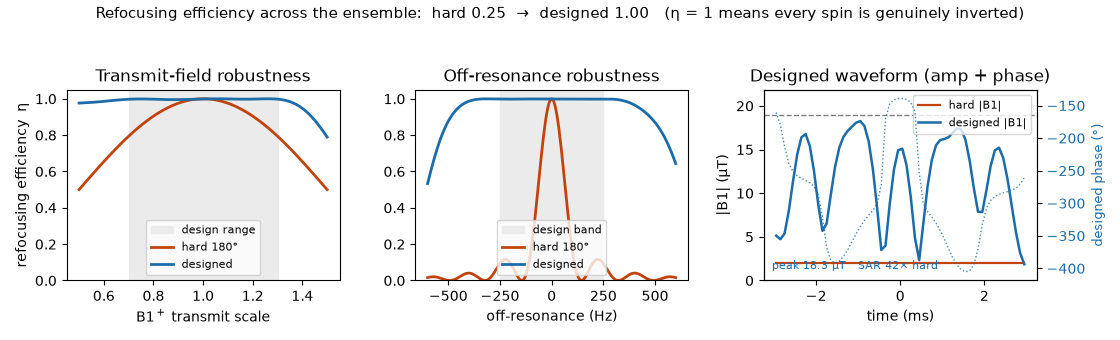
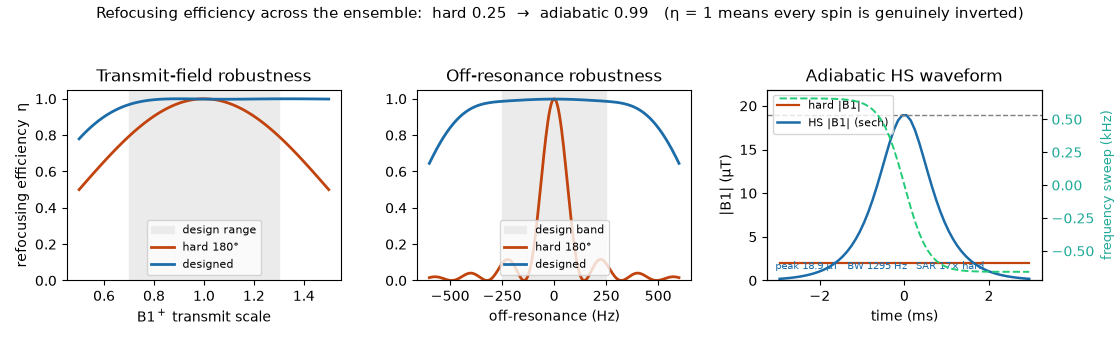
docs(rf): adiabatic (HS) pulse — clean spirals, real deliverable design
Rebuild the pedagogy around the hyperbolic-secant adiabatic pulse now used by
design_refocusing_rf. Hero: the three spins FOLLOW the swept field and spiral
smoothly +z→−z on the Bloch sphere (no more wander), with the sech B1(t)
playing. Profile: η vs B1⁺ / off-resonance (flat) + the sech amplitude & tanh
frequency sweep. Prose rewritten for the adiabatic mechanism, the sweep/
bandwidth, the SAR cost, and the pair-refocusing caveat.

diff --git a/docs/design/media/fig_rf_profile.py b/docs/design/media/fig_rf_profile.py
@@ -32,7 +32,7 @@ HARD, DES = "#c1440e", "#1b6ca8"
 
 d = design_refocusing_rf(rf_duration=RF_DUR, dt=DT, B1_max=B1_MAX,
                          b1_range=(0.7, 1.3), n_b1=7, off_resonance_hz=250.0,
-                         n_off_resonance=7, n_basis=10, n_restarts=8, seed=0)
+                         n_off_resonance=7)
 n_rf = d.B1.shape[0]
 A0 = np.pi / (GAMMA * n_rf * DT)
 hard = np.full(n_rf, A0, dtype=np.complex128)
@@ -64,23 +64,25 @@ axes[1].plot(df_ax, eta(d.B1, 1.0, df_ax), color=DES, lw=2, label="designed")
 axes[1].set_xlabel("off-resonance (Hz)"); axes[1].set_title("Off-resonance robustness")
 axes[1].set_ylim(0, 1.05); axes[1].legend(fontsize=8, loc="lower center")
 
-# (C) the designed waveform: amplitude + phase modulation
+# (C) the adiabatic waveform: sech amplitude + tanh frequency sweep (its defining feature)
 t = d.times() * 1e3
+freq = np.gradient(np.unwrap(np.angle(d.B1)), d.dt) / (2 * np.pi) * 1e-3   # kHz, instantaneous
 axC = axes[2]; axP = axC.twinx()
 axC.plot(t, np.abs(hard) * 1e6, color=HARD, lw=1.6, label="hard |B1|")
-axC.plot(t, np.abs(d.B1) * 1e6, color=DES, lw=1.8, label="designed |B1|")
+axC.plot(t, np.abs(d.B1) * 1e6, color=DES, lw=1.8, label="HS |B1| (sech)")
 axC.axhline(B1_MAX * 1e6, color="0.5", ls="--", lw=1)
-axP.plot(t, np.unwrap(np.angle(d.B1)) * 180 / np.pi, color=DES, lw=1.0, ls=":", alpha=0.8)
+axP.plot(t, freq, color="#2c7", lw=1.4, ls="--", label="sweep (tanh)")
 axC.set_xlabel("time (ms)"); axC.set_ylabel("|B1| (µT)")
-axP.set_ylabel("designed phase (°)", color=DES, fontsize=9)
-axP.tick_params(axis="y", labelcolor=DES)
-axC.set_title("Designed waveform (amp + phase)")
+axP.set_ylabel("frequency sweep (kHz)", color="#2a9", fontsize=9)
+axP.tick_params(axis="y", labelcolor="#2a9")
+axC.set_title("Adiabatic HS waveform")
 axC.set_ylim(0, B1_MAX * 1e6 * 1.15)
-axC.legend(fontsize=8, loc="upper right")
-axC.text(0.03, 0.06, "peak %.1f µT   SAR %.0f× hard" % (d.peak_B1 * 1e6, d.sar_ratio),
-         transform=axC.transAxes, fontsize=8, color=DES)
+axC.legend(fontsize=8, loc="upper left")
+axC.text(0.03, 0.06, "peak %.1f µT   BW %.0f Hz   SAR %.0f× hard"
+         % (d.peak_B1 * 1e6, d.bandwidth_hz, d.sar_ratio),
+         transform=axC.transAxes, fontsize=7.5, color=DES)
 
-fig.suptitle("Refocusing efficiency across the ensemble:  hard %.2f  →  designed %.2f   "
+fig.suptitle("Refocusing efficiency across the ensemble:  hard %.2f  →  adiabatic %.2f   "
              "(η = 1 means every spin is genuinely inverted)"
              % (d.refocusing_efficiency_hard, d.refocusing_efficiency), fontsize=10.5)
 fig.tight_layout(rect=(0, 0, 1, 0.93))

diff --git a/docs/design/media/fig_rf_refocus.py b/docs/design/media/fig_rf_refocus.py
@@ -36,9 +36,9 @@ from dmipy_sim.rf import B1Pulse, bloch_simulate
 
 DT, RF_DUR, B1_MAX = 1e-4, 6e-3, 19e-6
 
-d = design_refocusing_rf(rf_duration=RF_DUR, dt=DT, B1_max=B1_MAX,      # peak-limited (robust)
+d = design_refocusing_rf(rf_duration=RF_DUR, dt=DT, B1_max=B1_MAX,      # peak-limited (adiabatic)
                          b1_range=(0.7, 1.3), n_b1=7, off_resonance_hz=250.0,
-                         n_off_resonance=7, n_basis=10, n_restarts=8, seed=0)
+                         n_off_resonance=7)
 p_des = d.to_b1pulse()
 p_hard = B1Pulse.hard(180, RF_DUR, DT)
 
@@ -75,11 +75,12 @@ axH = fig.add_subplot(gs[0, 0], projection="3d")
 axD = fig.add_subplot(gs[0, 1], projection="3d")
 axE = fig.add_subplot(gs[1, :])
 _sphere(axH, "Hard 180°", "#c1440e")
-_sphere(axD, "B1-robust 180° (designed)", "#1b6ca8")
+_sphere(axD, "Adiabatic 180° (HS, designed)", "#1b6ca8")
 
 fig.suptitle("A 180° pulse should invert EVERY spin (+z → −z) whatever transmit strength B1⁺ it feels.\n"
-             "Three spins are followed on the Bloch sphere (rotating frame); the RF waveform plays below.",
-             fontsize=10, y=0.98)
+             "Left: a hard pulse. Right: an adiabatic (HS) pulse — the spin FOLLOWS the swept field, "
+             "spiralling smoothly to −z.",
+             fontsize=9.5, y=0.98)
 
 paths, tips = {}, {}
 for ax, H in ((axH, HH), (axD, HD)):

diff --git a/docs/design/rf.md b/docs/design/rf.md
@@ -5,63 +5,64 @@ inverts every spin perfectly, everywhere. A real refocusing pulse does not. Acro
 transmit field $B_1^+$ varies by tens of percent, so a hard 180° that is exactly π at the coil
 centre becomes a 126° at $B_1^+=0.7$ and a 234° at $B_1^+=1.3$ — the off-nominal spins are never
 properly flipped, the spin echo built on them is incomplete, and that is signal you simply lose.
-`design_refocusing_rf` designs the *RF envelope itself* to flip **every** spin by ~180° across
-that operating range, while staying scanner-deliverable.
 
-It is the **RF analogue of the [NOW gradient box](deliverable.md)**: same idea — maximise a
-physical objective, evaluated through the Bloch equation, subject to the real hardware limits —
-applied to $B_1(t)$ instead of $G(t)$.
+The standard, scanner-deliverable fix is an **adiabatic pulse**: sweep the RF frequency slowly
+through resonance while the amplitude rises and falls, and — provided the sweep is slow enough
+(the *adiabatic condition*) — the magnetisation **follows the effective field** from +z to −z
+*regardless* of the exact $B_1^+$. `design_refocusing_rf` designs the classic **hyperbolic-secant
+(HS) adiabatic full passage** (Silver, Joseph & Hoult 1985) and tunes it to your hardware.
 
-![Three spins are followed on the Bloch sphere (rotating frame) as each pulse plays: one weak-transmit (B1⁺ 0.7×, purple), one nominal (1.0×, black), one strong (1.3×, gold). A 180° pulse should invert every one of them, +z → −z. Under the hard 180° (left) only the nominal spin reaches the south pole; the weak and strong spins under/over-rotate and stall near the equator (Mz ≈ −0.6, not inverted). Under the designed 180° (right) — a phase-modulated, composite/adiabatic-like waveform, shown playing at the bottom — all three spiral down to −z (Mz ≈ −1). That is the robustness the optimiser buys.](media/rf_refocus.gif){ width="100%" }
+It is the **RF analogue of the [NOW gradient box](deliverable.md)**: design a *deliverable*
+waveform that meets a physical spec under the real hardware limits — here $B_1(t)$ instead of
+$G(t)$.
+
+![Three spins are followed on the Bloch sphere (rotating frame): weak-transmit (B1⁺ 0.7×, purple), nominal (1.0×, black), strong (1.3×, gold). Under the hard 180° (left) only the nominal spin reaches −z; the weak and strong spins under/over-rotate and stall near the equator (Mz ≈ −0.6, not inverted). Under the adiabatic HS pulse (right) all three FOLLOW the swept effective field and spiral smoothly down to −z (Mz ≈ −1), regardless of B1⁺. The RF waveform playing below is the HS amplitude (a smooth sech rise-and-fall).](media/rf_refocus.gif){ width="100%" }
 
 New to RF pulses? The [RF pulses — watch the spins](../rf_pulses.md) page (dmipy-sim) shows what
-a $B_1(t)$ envelope *is* and how the Bloch forward plays any pulse — this page is what happens
-when you put an optimiser in front of that forward.
+a $B_1(t)$ envelope *is* and how the Bloch forward plays any pulse — this page designs one.
 
 ## Idealized vs real refocusing
 
 | Idealized theory | Real hardware |
 |---|---|
-| instantaneous, perfect π everywhere | finite-duration pulse; flip scales with local $B_1^+$ |
+| instantaneous, perfect π everywhere | finite-duration pulse; a fixed-flip pulse's angle scales with $B_1^+$ |
 | single on-resonance spin | a spread of static **off-resonance** ($B_0$, susceptibility) |
 | unbounded RF | **peak $B_1$** cap (body-coil hardware limit) and **SAR** (heating) |
 | any shape | bandwidth / **RF slew** limited by the transmit chain |
 
-## The objective — per-spin refocusing fidelity
+## Why the adiabatic pulse is robust — and how it's scored
 
-A refocusing pulse should act as a true 180° rotation for **every** spin, whatever $B_1^+$ and
-off-resonance it sees. The figure of merit is the crushed spin-echo **refocusing efficiency**
+An adiabatic pulse doesn't try to hit exactly 180°; it makes the effective field *sweep* from
+far above resonance, through zero, to far below, and the magnetisation is dragged along with it.
+Change $B_1^+$ and the sweep is a little faster or slower, but as long as it stays adiabatic the
+spin still arrives at −z — that is the source of the robustness, and why every trajectory above
+is a smooth spiral rather than a delicate balance.
 
-$$\eta = \tfrac{1}{2}\,(1 - M_z) \in [0,1],\qquad M_z = \text{the pulse acting on } +z,$$
+The figure of merit is the crushed spin-echo **refocusing efficiency**
 
-which is $1$ for a perfect 180° ($M_z\!\to\!-1$) and $0$ for no rotation ($\eta=|\beta|^2$ in
-Shinnar–Le-Roux terms). The optimiser maximises the **mean of $\eta$ over the ensemble** of
-$(B_1^+\text{ scale} \times \text{off-resonance})$, evaluated by the Bloch equation itself.
+$$\eta = \tfrac12\,(1 - M_z) \in [0,1],\qquad M_z = \text{the pulse acting on } +z,$$
 
-Because $\eta$ is a **per-spin scalar**, the objective cannot be gamed by cross-spin phase
-cancellation — *every* spin must genuinely invert. (An earlier version maximised the coherent
-signal sum $|\langle M_{xy}\rangle|$; that is gameable and produced a pulse that inverted no spin
-well, so it was replaced.)
+($\eta = 1$ for a perfect inversion, $|\beta|^2$ in Shinnar–Le-Roux terms). It is a **per-spin**
+scalar, averaged over the $(B_1^+ \times \text{off-resonance})$ ensemble — so every spin must
+genuinely invert; it cannot be gamed by cross-spin phase cancellation. The design picks the
+sweep parameter $\mu$ (and, under a SAR cap, the amplitude) to maximise $\langle\eta\rangle$
+through the Bloch equation.
 
-![Left: refocusing efficiency η vs B1⁺ transmit scale, on resonance — the hard 180° is a sharp peak at B1⁺=1 and collapses either side, while the designed pulse holds η≈1 flat across (and beyond) the ±30% design range. Centre: η vs off-resonance at B1⁺=1 — the designed pulse holds a flat passband across the ±250 Hz band where the hard pulse is a narrow spike. Right: the designed waveform — amplitude |B1(t)| plus a swept phase (dotted) — the composite/adiabatic-like structure that buys the robustness, versus the flat hard 180°.](media/rf_profile.png){ width="100%" }
+![Left: refocusing efficiency η vs B1⁺ transmit scale — the hard 180° is a sharp peak at B1⁺=1 and collapses either side, while the adiabatic pulse holds η≈1 flat across (and beyond) the ±30% design range. Centre: η vs off-resonance — the sweep bandwidth covers a flat passband where the hard pulse is a narrow spike. Right: the HS waveform — a sech amplitude |B1(t)| and a tanh frequency sweep (green), the defining adiabatic signature — versus the flat hard 180°.](media/rf_profile.png){ width="100%" }
 
-## The deliverability box — and the price of robustness
+## Deliverability — and the price of robustness
 
-The optimisation variable is a **band-limited complex** envelope (a few low-frequency cosine
-coefficients per quadrature): amplitude *and* phase, because robust refocusing needs both (a
-real, amplitude-only pulse cannot fix a wrong flip angle). Band-limiting bounds the RF slew and
-bandwidth structurally.
+The amplitude is set to the deliverable peak (**$A_0 = B_1^{\max}$** — adiabaticity improves with
+amplitude, so you spend the coil's full peak), and the sweep bandwidth is chosen to cover the
+off-resonance band. Adiabatic pulses are **power-hungry**: following the field robustly costs RF
+energy — here ≈17× the SAR of a minimal hard 180°. `sar_headroom` caps that (as a multiple of the
+hard-180° energy) by lowering $A_0$; left `None` the design is peak-limited (most robust) and
+reports the SAR it spent.
 
 | Limit | RF analogue of | Role |
 |---|---|---|
-| **peak $B_1 \le B_1^{\max}$** | gradient amplitude box | hard hardware ceiling — always enforced |
-| **SAR $\propto \int \lvert B_1\rvert^2 dt$** | gradient heat limit | the **price of robustness** — see below |
-
-Robustness costs RF **energy**: a genuinely robust 180° spends several× the energy of a minimal
-hard 180° (the pulse below spends ≈40×). `sar_headroom` optionally caps that as a multiple of
-the hard-180° energy; left at its default (`None`) the design is **peak-limited** — the most
-robust pulse the coil can deliver — and simply *reports* the SAR it spent, so the trade is
-explicit.
+| **peak $B_1 = A_0 \le B_1^{\max}$** | gradient amplitude box | hard hardware ceiling |
+| **SAR $\propto \int\lvert B_1\rvert^2 dt$** | gradient heat limit | the price of adiabaticity |
 
 ## Use it
 
@@ -71,42 +72,41 @@ from dmipy_design import design_refocusing_rf
 d = design_refocusing_rf(
     rf_duration=6e-3, dt=1e-4,      # 6 ms pulse on a 100 µs RF raster
     B1_max=19e-6,                   # GE SIGNA Premier body coil ≈ 19 µT (hard peak limit)
-    sar_headroom=None,              # peak-limited (most robust); or e.g. 3.0 to cap SAR
-    b1_range=(0.7, 1.3), n_b1=7,    # ±30 % transmit inhomogeneity
-    off_resonance_hz=250.0, n_off_resonance=7,   # ±250 Hz B0 spread
+    sar_headroom=None,              # peak-limited (most adiabatic); or e.g. 8.0 to cap SAR
+    b1_range=(0.7, 1.3), n_b1=7,    # ±30 % transmit inhomogeneity to invert across
+    off_resonance_hz=250.0, n_off_resonance=7,   # ±250 Hz band the sweep must cover
 )
 
 d.refocusing_efficiency        # ensemble-mean η (0–1); 1 = every spin inverted
 d.refocusing_efficiency_hard   # same metric for a plain hard 180° — the baseline
-d.B1                           # optimised complex B1 envelope, Tesla
-d.peak_B1, d.sar_ratio, d.max_rf_slew   # delivered peak, SAR (× hard), RF slew
-d.feasible                     # peak-B1 (and SAR, if budgeted) within box
+d.B1                           # HS complex B1 envelope, Tesla
+d.mu, d.beta, d.bandwidth_hz   # the adiabatic sweep parameters
+d.peak_B1, d.sar_ratio         # delivered peak and SAR (× hard-180°)
 ```
 
 Peak-limited on a 19 µT body coil, the hard 180° refocuses only **η = 0.25** of the ±30 % /
-±250 Hz ensemble; the designed pulse reaches **η = 1.00** — every spin inverted — at **18.3 µT**
-peak (under the ceiling), for **≈42×** the RF energy of a hard 180°. Same echo time, far more
-signal; the SAR is the honest cost you trade against.
+±250 Hz ensemble; the HS adiabatic pulse reaches **η = 0.99** — every spin inverted — at
+**18.9 µT** peak, a **≈1.3 kHz** inversion band, for **≈17×** the RF energy of a hard 180°. Same
+echo time, far more signal; the SAR is the honest cost of adiabaticity.
 
-!!! note "Scope"
-    This designs the **refocusing pulse in isolation** — it is not coupled to the gradient
-    design. The scanner limits (`B1_max`, `sar_headroom`) are plain arguments; source `B1_max`
-    from the dmipy-sim scanner catalogue (the `[sim]` extra) if you have it. NumPy/SciPy only;
-    `d.to_b1pulse()` hands the design to dmipy-sim's Bloch forward.
+!!! note "Refocusing vs inversion"
+    An adiabatic *full passage* imparts a $B_0/B_1$-dependent phase, so as a **refocusing** pulse
+    it is used as a matched **pair** (double adiabatic refocusing, e.g. LASER) to cancel that
+    phase; the crushed-echo $\eta$ here is the single-pass $|\beta|^2$ refocusing coefficient.
+    The pulse is designed in isolation (not coupled to the gradient); `d.to_b1pulse()` hands it to
+    dmipy-sim's Bloch forward. NumPy/SciPy only.
 
 ## References
 
-Optimising an RF envelope through a Bloch / optimal-control forward is an established technique;
-the band-limited + peak-$B_1$ + SAR recipe and the crushed-echo refocusing objective here are
-dmipy-design's formulation, not lifted from an external library.
+The hyperbolic-secant adiabatic pulse and the crushed-echo / SLR refocusing efficiency are
+established; dmipy-design provides a NumPy/SciPy design + Bloch scoring, not an external library.
 
-- **Optimal-control RF design.** Conolly S, Nishimura D, Macovski A. *Optimal control solutions to
-  the magnetic resonance selective excitation problem.* IEEE Transactions on Medical Imaging
-  **5** (1986) 106–115. [doi:10.1109/TMI.1986.4307754](https://doi.org/10.1109/TMI.1986.4307754).
-- **GRAPE (gradient-ascent pulse engineering).** Khaneja N, Reiss T, Kehlet C,
-  Schulte-Herbrüggen T, Glaser SJ. *Optimal control of coupled spin dynamics: design of NMR pulse
-  sequences by gradient ascent algorithms.* Journal of Magnetic Resonance **172** (2005) 296–305.
-  [doi:10.1016/j.jmr.2004.11.004](https://doi.org/10.1016/j.jmr.2004.11.004).
+- **Hyperbolic-secant adiabatic pulse.** Silver MS, Joseph RI, Hoult DI. *Highly selective π/2
+  and π pulse generation.* Journal of Magnetic Resonance **59** (1984) 347–351; and *Phys. Rev. A*
+  **31** (1985) 2753. [doi:10.1103/PhysRevA.31.2753](https://doi.org/10.1103/PhysRevA.31.2753).
+- **Adiabatic pulses — review.** Tannús A, Garwood M. *Adiabatic pulses.* NMR in Biomedicine
+  **10** (1997) 423–434.
+  [doi:10.1002/(SICI)1099-1492(199712)10:8<423::AID-NBM488>3.0.CO;2-X](https://doi.org/10.1002/(SICI)1099-1492(199712)10:8%3C423::AID-NBM488%3E3.0.CO;2-X).
 - **Refocusing efficiency / SLR.** Pauly J, Le Roux P, Nishimura D, Macovski A. *Parameter
   relations for the Shinnar–Le Roux selective excitation pulse design algorithm.* IEEE
   Transactions on Medical Imaging **10** (1991) 53–65.
